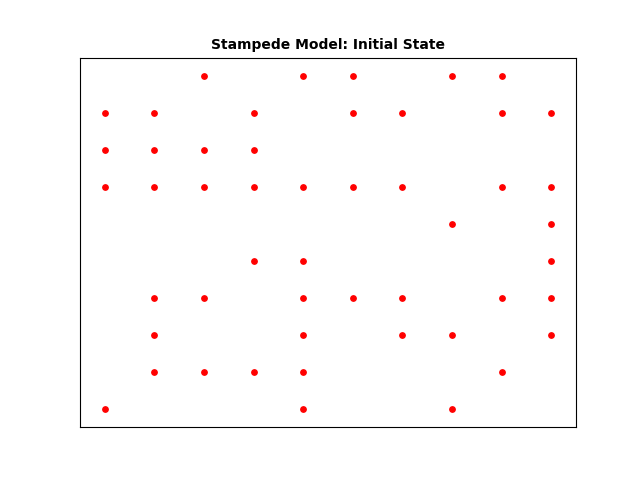
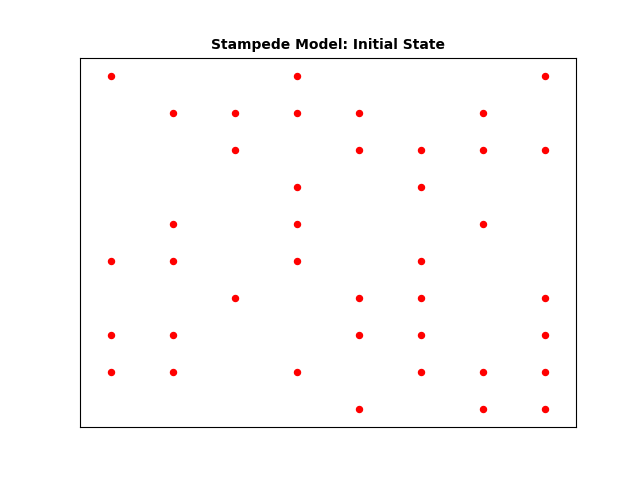
need to fix index error in crowd density function

diff --git a/Stampede.py b/Stampede.py
@@ -153,8 +153,12 @@ class Stampede:
         return full_spots
     
     def calculateCrowdDensity(self, x, y):
-        return (self.nine_square_ring(x,y) + self.sixteen_square_ring(x,y))/24
-    
+        result = (self.nine_square_ring(x,y) + self.sixteen_square_ring(x,y))/24
+        print("x,y: ", x, y)
+        print("density percentage: ", result)
+        print("denisty first ring: ", self.nine_square_ring(x,y))
+        print("density second ring: ", self.sixteen_square_ring(x,y))
+        return result
 
     def print_a_star_copy(self):
         print("a star copy: ")
@@ -336,8 +340,8 @@ class Stampede:
     # returns the strategy for each in the same order they were passed in
     # for example, play_normal_form_game(agent1, agent2) would return agent1Strategy, agent2Strategy
     def play_normal_form_game(self, agent1, agent2):
-        agent1_rational = agent1.isRational(self.calculateCrowdDensity(agent1.position['x'], agent1.position['y']))
-        agent2_rational = agent2.isRational(self.calculateCrowdDensity(agent2.position['x'], agent2.position['y']))
+        agent1_rational = agent1.isRational(self.calculateCrowdDensity(agent1.position['y'], agent1.position['x']))
+        agent2_rational = agent2.isRational(self.calculateCrowdDensity(agent2.position['y'], agent2.position['x']))
 
         if agent1_rational and agent1.weight < agent2.weight and agent2_rational and agent2.weight > agent1.weight:
             # Outcome for you: rational, weak; he: rational, strong
@@ -586,18 +590,14 @@ class Stampede:
 def main():
     ##Starter Simulation
     weightDistribution = {"mean": 160, "sd": 20}  # not facts idk what weight distribution is
-    stampede = Stampede(10, 10, 0.5, 200, weightDistribution)  # TODO: CHANGE THIS EVENTUALLY TO A BIGGER ARRAY :)
+    stampede = Stampede(8, 10, 0.5, 200, weightDistribution)  # TODO: CHANGE THIS EVENTUALLY TO A BIGGER ARRAY :)
     stampede.populate()
 
     stampede.plot('Stampede Model: Initial State', 'stampede_initial.png')
 
     stampede.move_locations()
 
-    # stampede.print_a_star_copy()
-    # print(stampede.agents[1])
-    stampede.results(stampede.allAgents)
-
-    # stampede.move_locations()
+    # stampede.results(stampede.allAgents)
 
     stampede.plot('Stampede Model: Final State',
                         'stampede_final.png')
